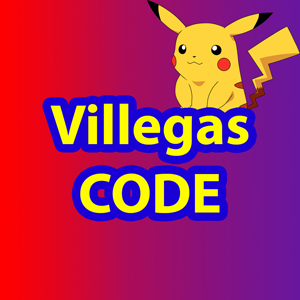
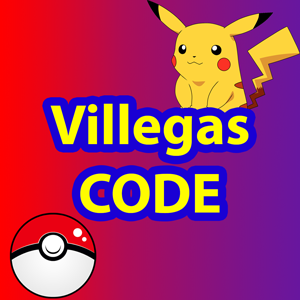
Cover of tiles replace + new pokemon added + pikachuYcharmander.png deleted + gridOFtiles.js countdown added + new background color

Changed region(s): [[0.03, 0.69, 0.33, 1.0], [0.06, 0.72, 0.12, 0.78]]

diff --git a/gridOFtiles.js b/gridOFtiles.js
@@ -5,7 +5,7 @@ var faceDownImage;
 var canvas;
 var faces = [];
 var h1;
-var NUM_COLS = 4;
+var NUM_COLS = 5;
 var NUM_ROWS = 6;
 var sizeCard;
 var fichaSize=80;
@@ -16,7 +16,7 @@ function preload() {
     faceDownImage = loadImage('tiles/pikachuVillegasCODE.png');
 
         // Declare an array of all possible faces
-        for (var num = 0; num < 30; num++) {
+        for (var num = 0; num < 31; num++) {
             //The names of pictures are correlatives
             faces[num] = loadImage("faces/face" + num + ".png");
         }
